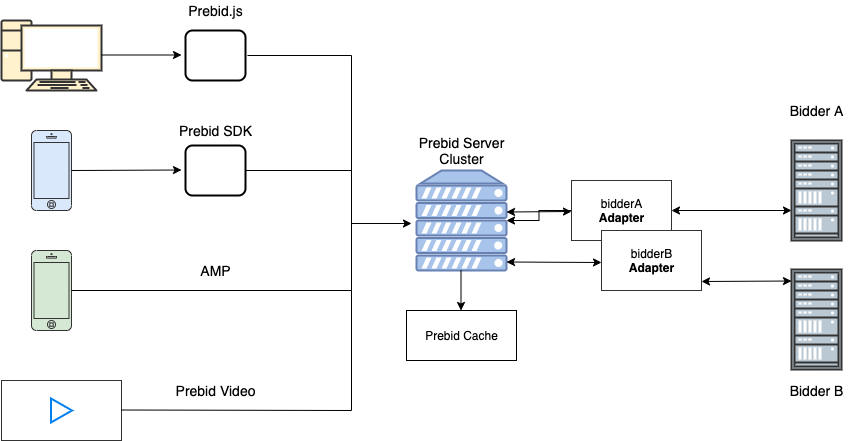
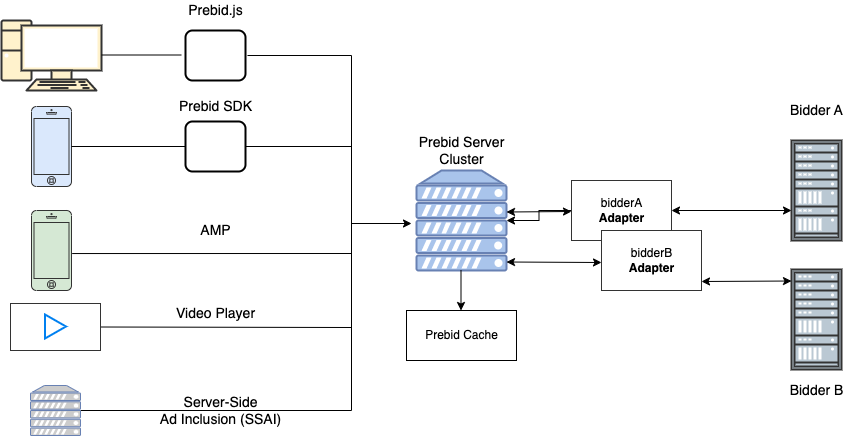
PBS: added SSAI to diagram

diff --git a/prebid-server/overview/prebid-server-overview.md b/prebid-server/overview/prebid-server-overview.md
@@ -8,17 +8,17 @@ sidebarType: 5
 # Prebid Server Overview
 {:.no_toc}
 
-Prebid Server is an open-source solution for server-to-server header bidding. It supports a number of key use cases: [mobile app](/prebid-server/use-cases/pbs-sdk.html), [AMP](/prebid-server/use-cases/pbs-amp.html), [server-side web with Prebid.js](/prebid-server/use-cases/pbs-pbjs.html), and [long-form video](/prebid-server/use-cases/pbs-lfv.html).
+Prebid Server is an open-source solution for server-to-server header bidding. It supports a number of key use cases: [mobile app](/prebid-server/use-cases/pbs-sdk.html), [AMP](/prebid-server/use-cases/pbs-amp.html), [server-side web with Prebid.js](/prebid-server/use-cases/pbs-pbjs.html), and server-side ad inclusion scenarios such as [long-form video](/prebid-server/use-cases/pbs-lfv.html) and audio.
 
 ![Prebid Server Architecture](/assets/images/flowcharts/prebid-server/pbs-basic-flow.png){:class="pb-xlg-img"}
 
 Prebid Server is a header bidding server with a growing list of features. At a high level, it works like this:
 
-1. Prebid Server completes and validates incoming requests
+1. Prebid Server validates and enhances incoming requests
   - Resolves dynamic stored requests
   - Enforces privacy regulations
 2. Next, it calls server-side bid adapters
-  - There are currently 100+ server-side bid adapters available
+  - There are 140+ server-side bid adapters available
 3. After everyone's responded (or the timeout period has expired), it formulates an appropriate response
   - Handles currency conversion
   - Quantizes bids
@@ -42,7 +42,13 @@ The simplest route to working with Prebid Server is to sign up for a hosted solu
 
 But of course this is open source, so you're welcome to do this on your own. If you decide to implement your own Prebid Server solution, first check out the general [Prebid Server host company overview](/prebid-server/hosting/pbs-hosting.html).
 
-Then you need to decide which of the two implementations to utilize:
+Note that Prebid Server is not a turn-key solution. Whoever takes on hosting a Prebid Server also needs to take on:
+- Setting up production-quality servers, networking, monitors, etc.
+- Populating backend data such as stored requests and account-level configuration
+- Responsibility for understanding the legal implications of ad tech in your marketplace. PBS has built-in configurable support for [several privacy regulations](/prebid-server/features/pbs-privacy.html), but you need to understand and configure them with help from your lawyers.
+- Regular updates. Please don't download Prebid Server and just run the same version forever. You need to commit to checking **at least** quarterly for updates. There are new releases most every week.
+
+You'll need to decide which of the two implementations to utilize:
 
 - [Prebid Server (Go)](/prebid-server/versions/pbs-versions-go.html) - the original Prebid Server is written in the Go language.
 - [Prebid Server (Java)](/prebid-server/versions/pbs-versions-java.html) - Prebid Server with a Java language port.
